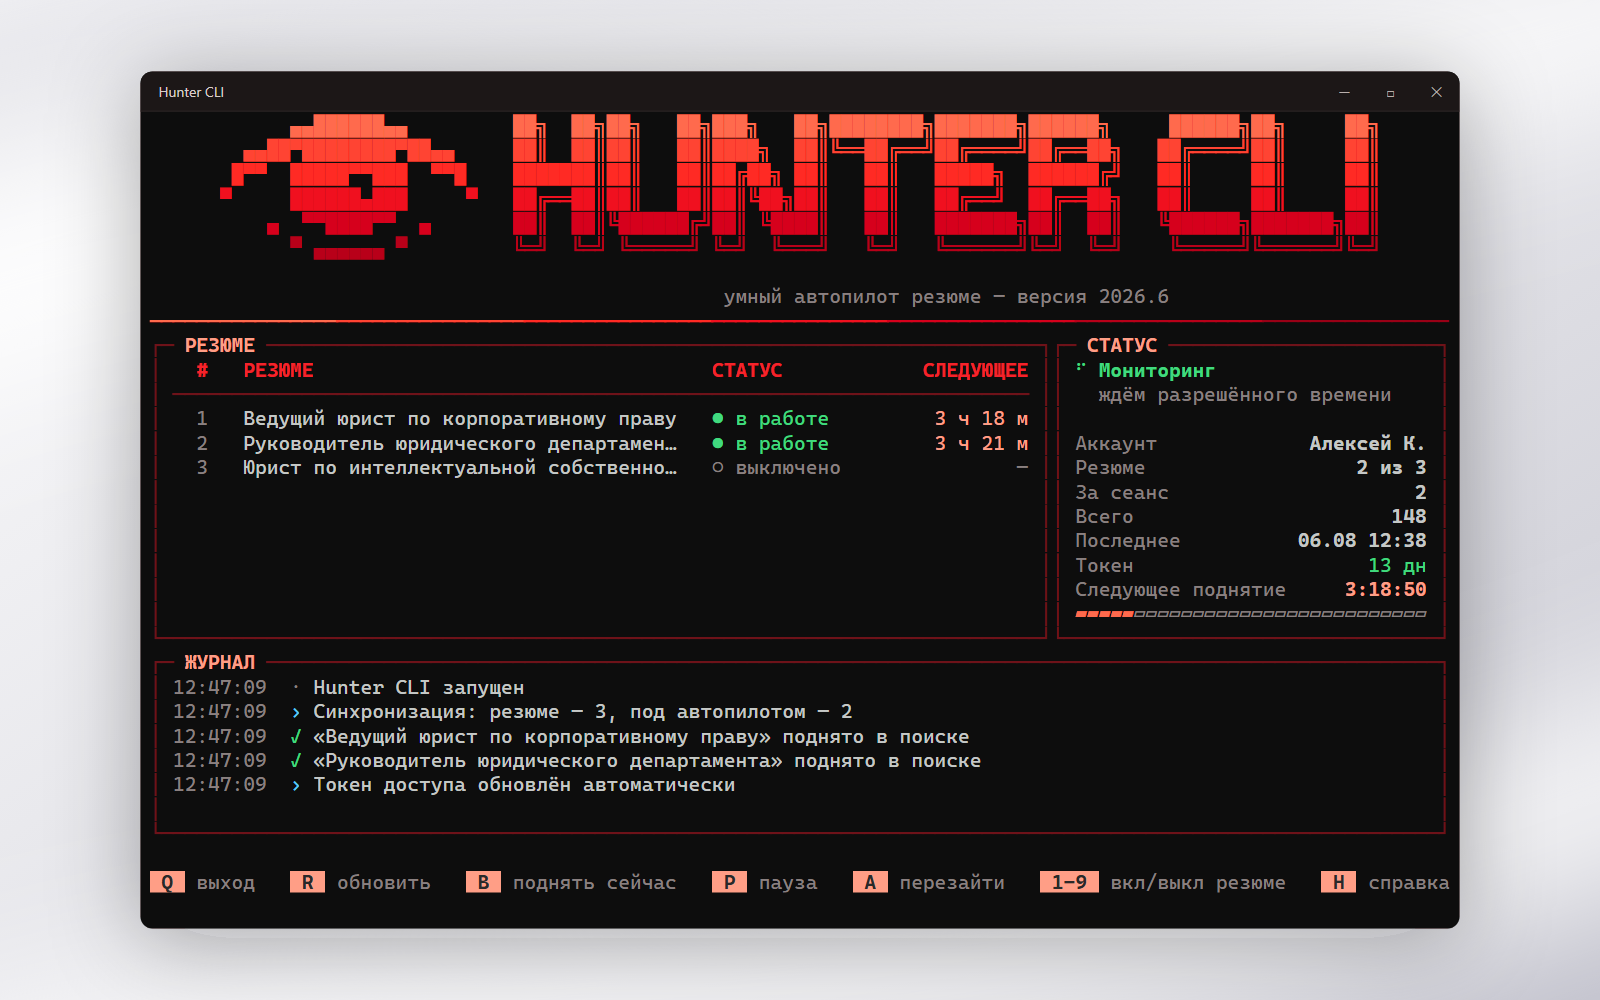
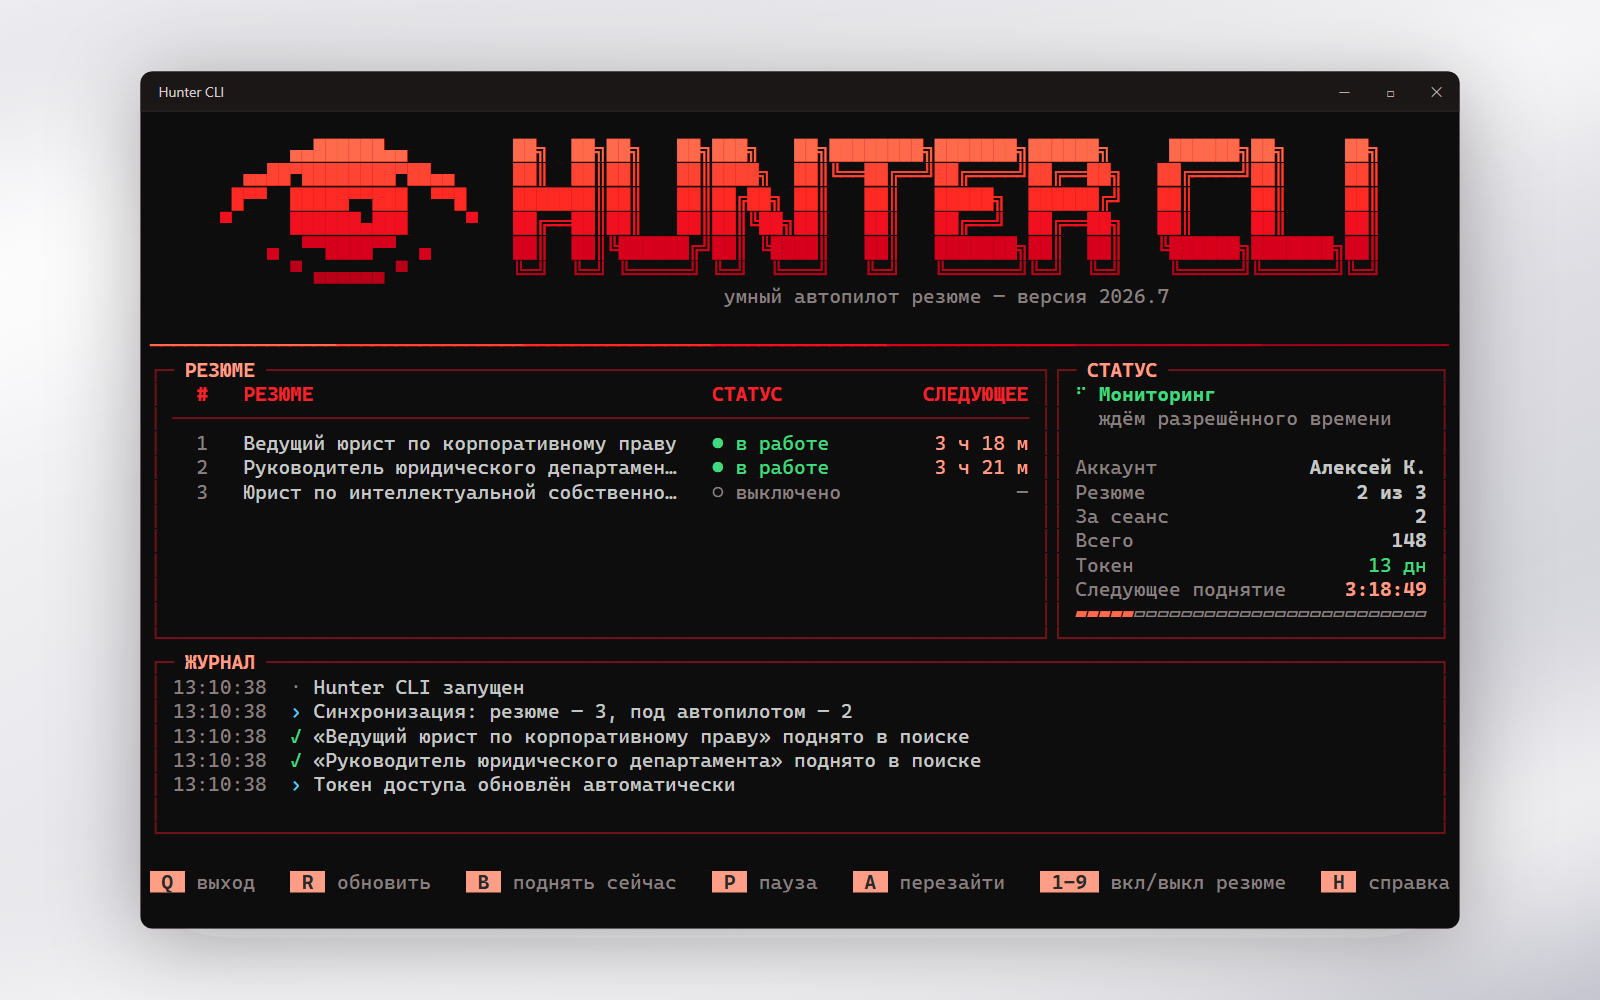
release: 2026.7
Логотип моргает целиком: нижние ресницы поднимаются навстречу верхнему веку,
а не остаются висеть на месте. Подпись прижата к надписи, зато появился воздух
над логотипом и под подписью. Конфиг и журнал переехали в %LOCALAPPDATA% и
больше не сорят в папке с программой; файлы прежних версий подбираются при
первом запуске.

diff --git a/huntercli/__init__.py b/huntercli/__init__.py
@@ -11,7 +11,7 @@ Copyright (c) 2026 Алексей Коняев.
 import sys
 
 #: Календарная нумерация: год и порядковый выпуск внутри года.
-__version__ = "2026.6"
+__version__ = "2026.7"
 
 APP_NAME = "Hunter CLI"
 
